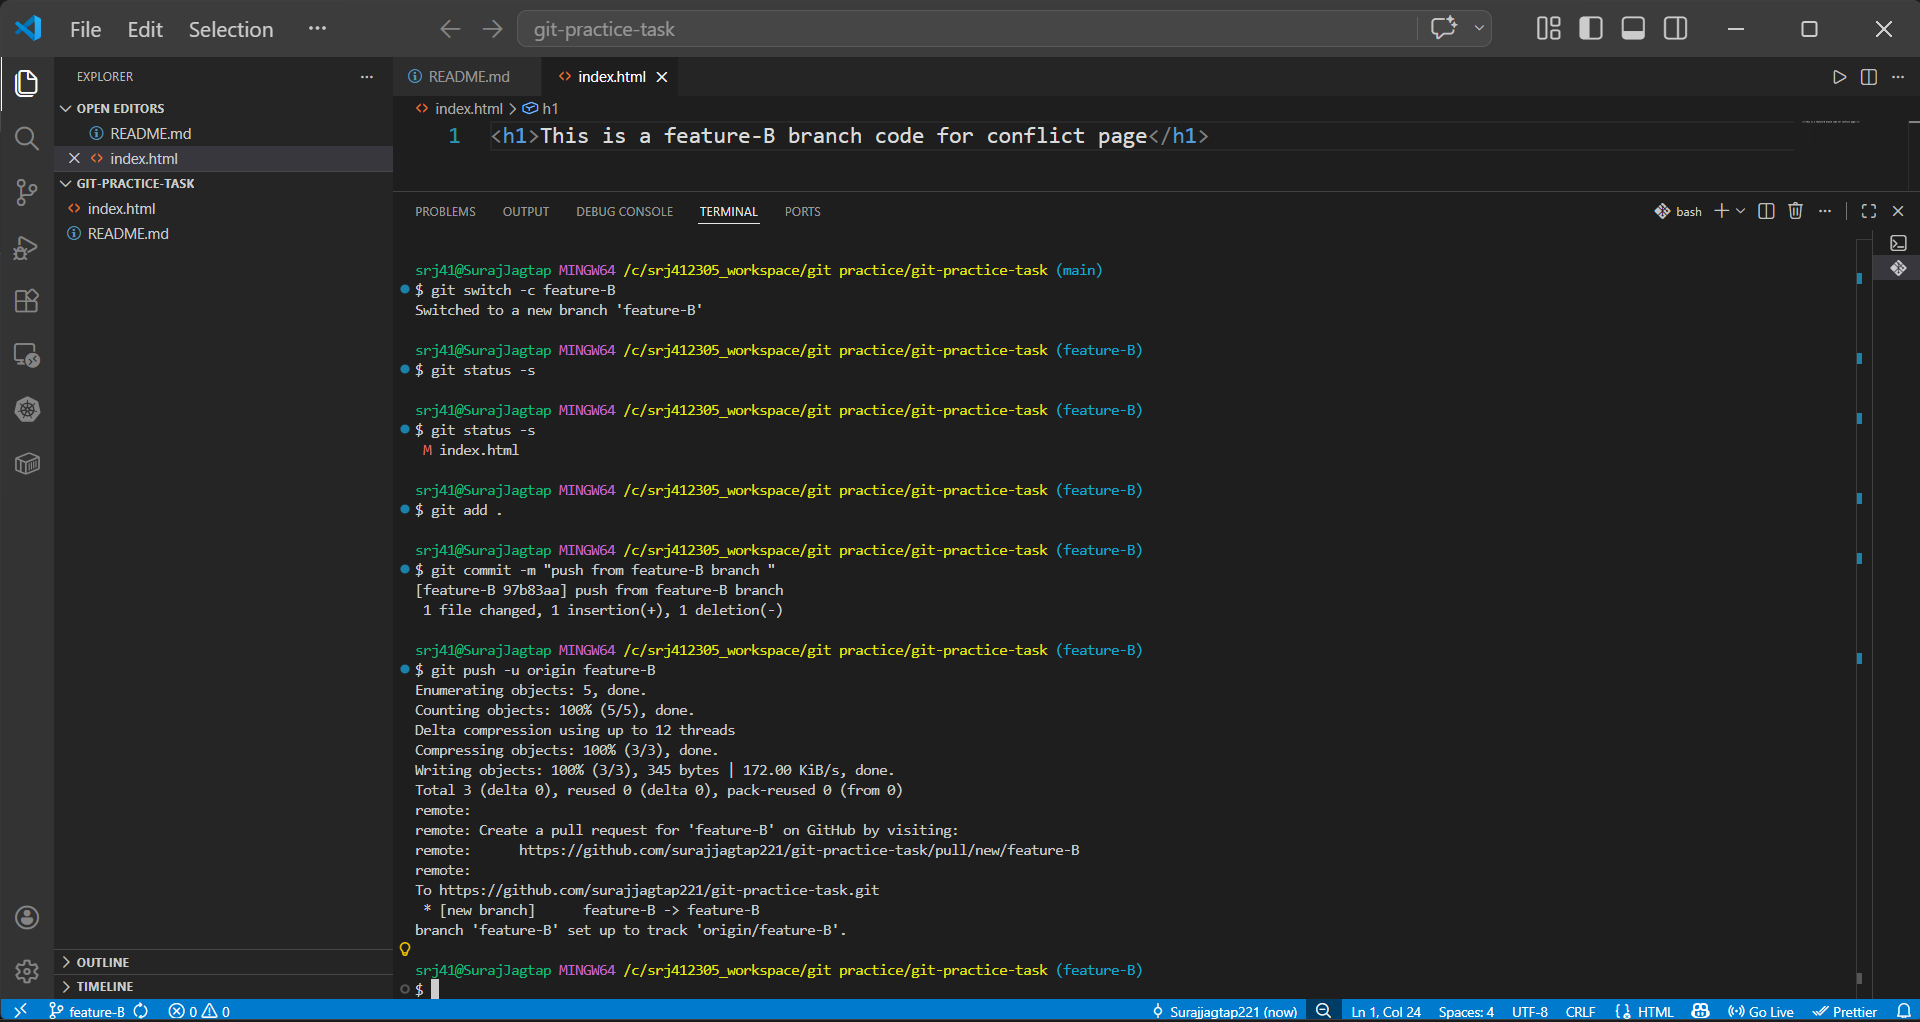
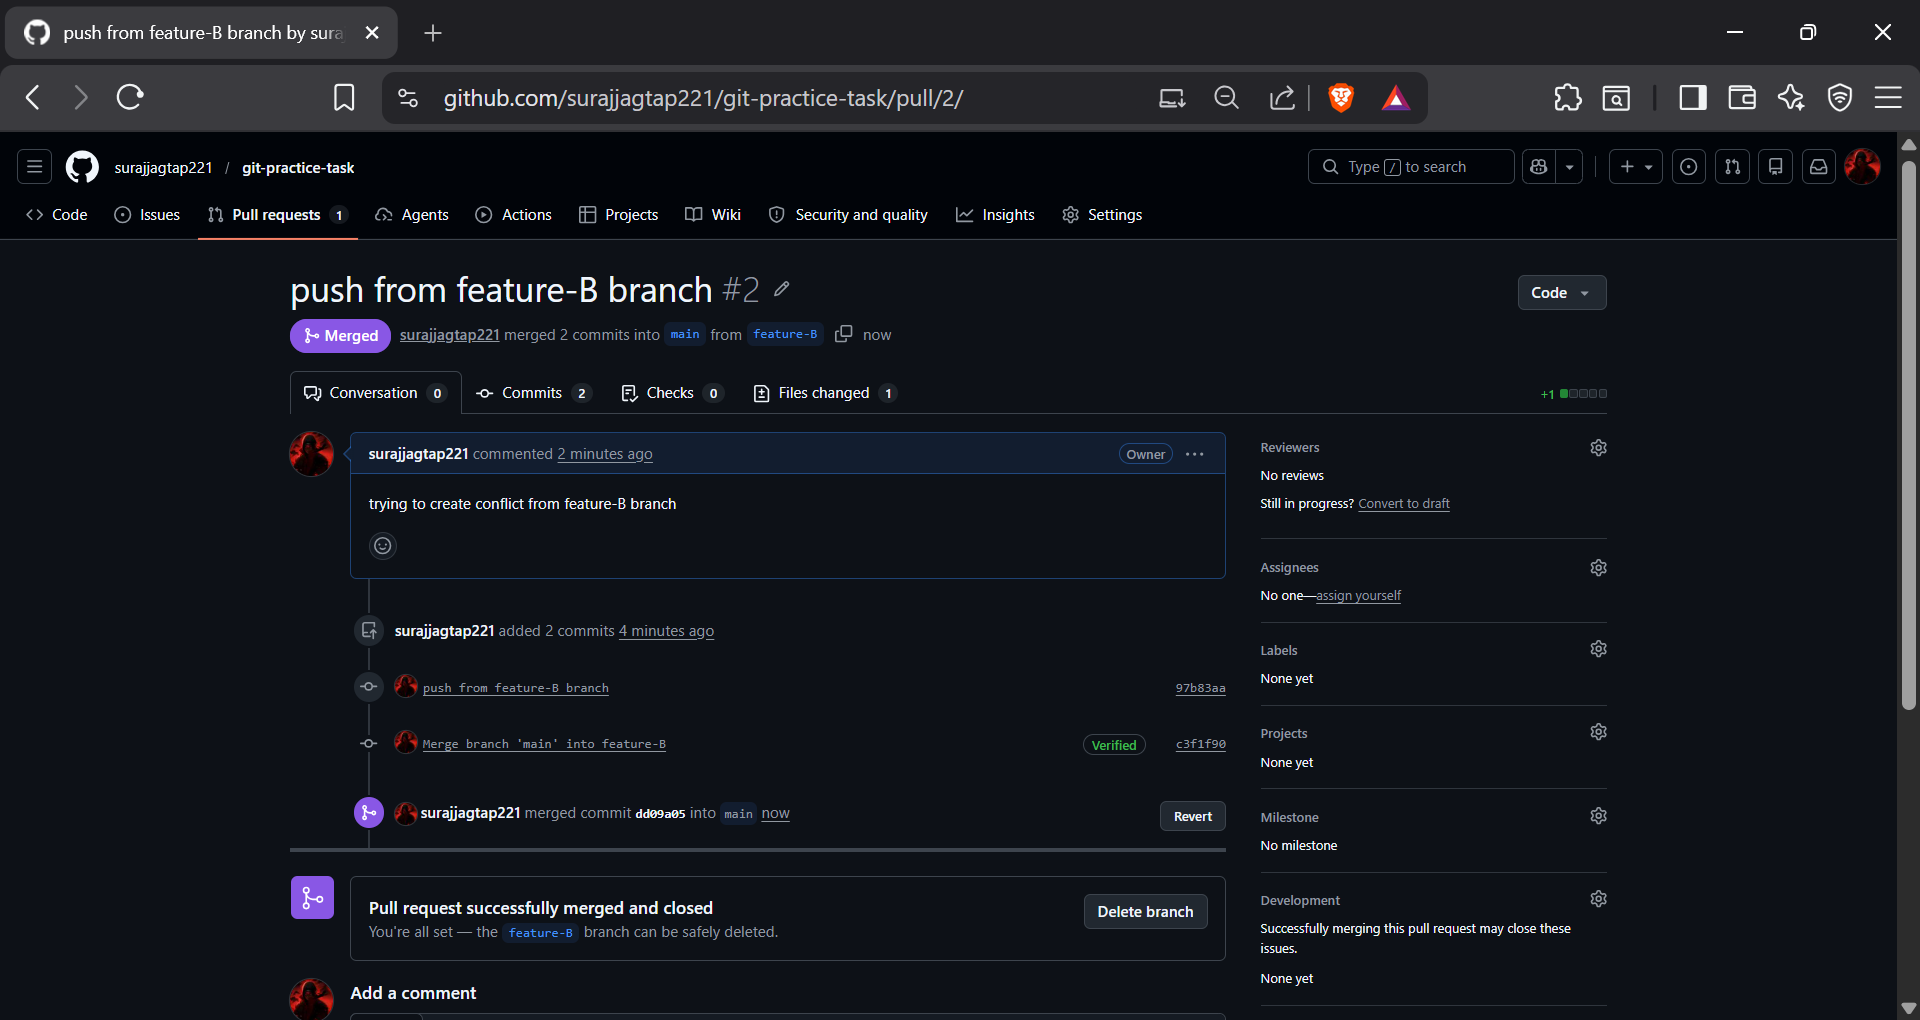
Img update 3rd time

diff --git a/README.md b/README.md
@@ -144,7 +144,11 @@ Created branch:
 git switch -c feature-B
 ```
 
-Modified same lines in `index.html`.
+Modified same lines in `index.html` and push.
+
+### Screenshot
+
+![](docs/screenshots/task6-featureB-modify&push.png)
 
 Created Pull Request:
 
